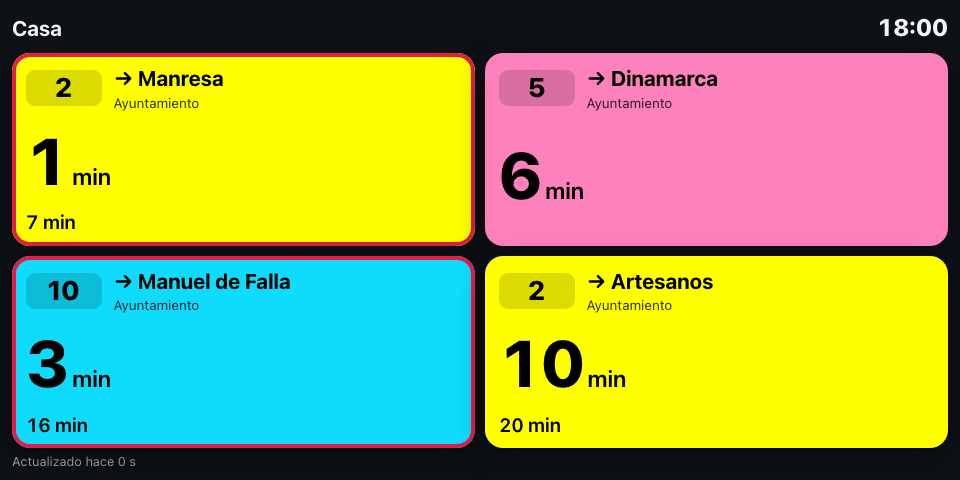
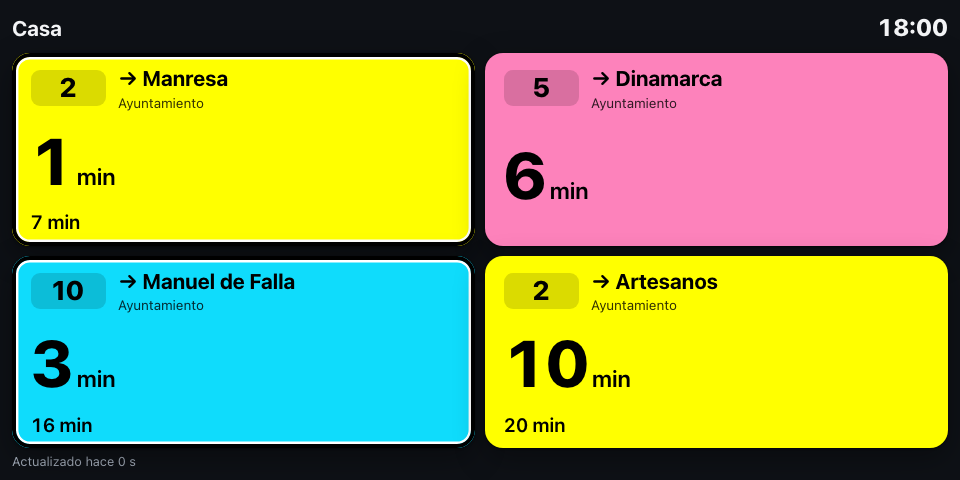
fix(board): el «prog.» del tiempo principal escala y en modo pantalla el tiempo se aparta del borde (#31)
* fix(board): el «prog.» del tiempo principal escala y en modo pantalla el tiempo se aparta del borde

- «prog.» junto al número grande se medía con la letra base de .next (≈11 px en cualquier pantalla); ahora escala como «min» y nunca es menor que el de las siguientes llegadas.
- En modo pantalla el margen interior crece con la tarjeta (max(14px, 4cqi)), así el número no roza el borde ni el anillo del aviso.
- En modo pantalla el tope del tiempo principal sube de 12em a 20em (y «min», «prog.» y las horas en proporción), para aprovechar pantallas con 1–2 tarjetas.
- e2e: caso de 1 tarjeta, separación mínima del borde y tamaño de «prog.».

* docs(guia): capturas al día con la tarjeta nueva

Además del «prog.» y del margen en modo pantalla, recoge el anillo de aviso en blanco y negro, que las capturas del panel aún mostraban en rojo.

Changed region(s): [[0.0, 0.0938, 0.75, 0.9375], [0.5312, 0.6875, 0.6562, 0.8125]]

diff --git a/web/apps/pwa/e2e/pantalla.spec.ts b/web/apps/pwa/e2e/pantalla.spec.ts
@@ -1,5 +1,5 @@
 /** Screen mode on smart displays: everything visible at once, no scrolling, legible. */
-import { expect, test } from '@playwright/test';
+import { type Locator, expect, test } from '@playwright/test';
 
 import { useRecordedUpstream } from './upstream.ts';
 
@@ -8,6 +8,7 @@ test.beforeEach(async ({ page }) => {
 });
 
 for (const [label, selection, expectedCards] of [
+  ['1 tarjeta', '101-2d', 1],
   ['4 tarjetas', '101-2d.5a.10d~100-2a', 4],
   ['6 tarjetas', '101-2d.5a.7d.10d~100-2a.10a', 6],
 ] as const) {
@@ -46,9 +47,35 @@ for (const [label, selection, expectedCards] of [
       });
       if (sizes.value !== null) expect(sizes.value).toBeGreaterThanOrEqual(28);
       if (sizes.empty !== null) expect(sizes.empty).toBeGreaterThanOrEqual(16);
+      // The countdown keeps clear of the card edge (and of the alert ring drawn over it) in
+      // proportion to the card, not by a fixed few pixels that vanish on a wall-sized card.
+      const inset = await card.evaluate((element) => {
+        const article = element.shadowRoot!.querySelector('article')!.getBoundingClientRect();
+        const value = element.shadowRoot!.querySelector('.next .value')?.getBoundingClientRect();
+        return value ? { left: value.left - article.left, width: article.width } : null;
+      });
+      if (inset !== null) expect(inset.left).toBeGreaterThanOrEqual(inset.width * 0.035);
     }
   });
 }
+
+test('«prog.» junto al tiempo principal no es más pequeño que en las siguientes llegadas', async ({
+  page,
+}) => {
+  // Stop 69: lines 5 and 9 only have timetable fill-ins at the recording time.
+  await page.goto('./?v=1&p=69-5a.9d&modo=kiosko&n=2');
+  const cards = page.locator('lb-card');
+  await expect(cards).toHaveCount(2);
+  const fontSize = (mark: Locator) =>
+    mark.evaluate((element) => parseFloat(getComputedStyle(element).fontSize));
+  for (const card of await cards.all()) {
+    const next = card.locator('.next .mark');
+    const following = card.locator('li .mark').first();
+    await expect(next).toBeVisible();
+    await expect(following).toBeVisible();
+    expect(await fontSize(next)).toBeGreaterThanOrEqual(await fontSize(following));
+  }
+});
 
 test('un toque muestra cómo salir del modo pantalla', async ({ page }) => {
   await page.goto('./?v=1&p=101-2d&modo=kiosko');

diff --git a/web/packages/board/src/lb-card.ts b/web/packages/board/src/lb-card.ts
@@ -300,6 +300,10 @@ export class LbCard extends LitElement {
       container-type: size;
       height: 100%;
     }
+    /* A fixed inset vanishes on a wall-sized card, and the alert ring is drawn over it. */
+    :host([fit]) article {
+      padding: max(10px, 3cqh) max(14px, 4cqi);
+    }
     header {
       display: flex;
       align-items: center;
@@ -404,13 +408,16 @@ export class LbCard extends LitElement {
       font-size: clamp(0.7em, calc(min(3.6cqi, 7cqh) * var(--lb-text-scale, 1)), 1.6em);
     }
     :host([fit]) .next .value {
-      font-size: clamp(1.6em, calc(min(30cqi, 34cqh) * var(--lb-text-scale, 1)), 12em);
+      font-size: clamp(1.6em, calc(min(30cqi, 34cqh) * var(--lb-text-scale, 1)), 20em);
     }
     :host([fit]) .next .value.word {
-      font-size: clamp(1.3em, calc(min(17cqi, 22cqh) * var(--lb-text-scale, 1)), 7em);
+      font-size: clamp(1.3em, calc(min(17cqi, 22cqh) * var(--lb-text-scale, 1)), 11.5em);
     }
     :host([fit]) .next .unit {
-      font-size: clamp(0.9em, calc(min(7cqi, 12cqh) * var(--lb-text-scale, 1)), 3.6em);
+      font-size: clamp(0.9em, calc(min(7cqi, 12cqh) * var(--lb-text-scale, 1)), 6em);
+    }
+    :host([fit]) .next .mark {
+      font-size: clamp(0.63em, calc(min(4.9cqi, 8.4cqh) * var(--lb-text-scale, 1)), 4.2em);
     }
     :host([fit]) .soon {
       font-size: clamp(0.8em, calc(min(4.5cqi, 9cqh) * var(--lb-text-scale, 1)), 2.4em);
@@ -422,6 +429,11 @@ export class LbCard extends LitElement {
       font-size: 0.7em;
       font-weight: 500;
       opacity: 0.85;
+    }
+    /* Beside the big number its parent is .next, which keeps the base size: scale like .unit. */
+    .next .mark {
+      font-size: 1.05em;
+      font-size: clamp(0.7em, calc(4.9cqi * var(--lb-text-scale, 1)), 1.4em);
     }
   `;
 
